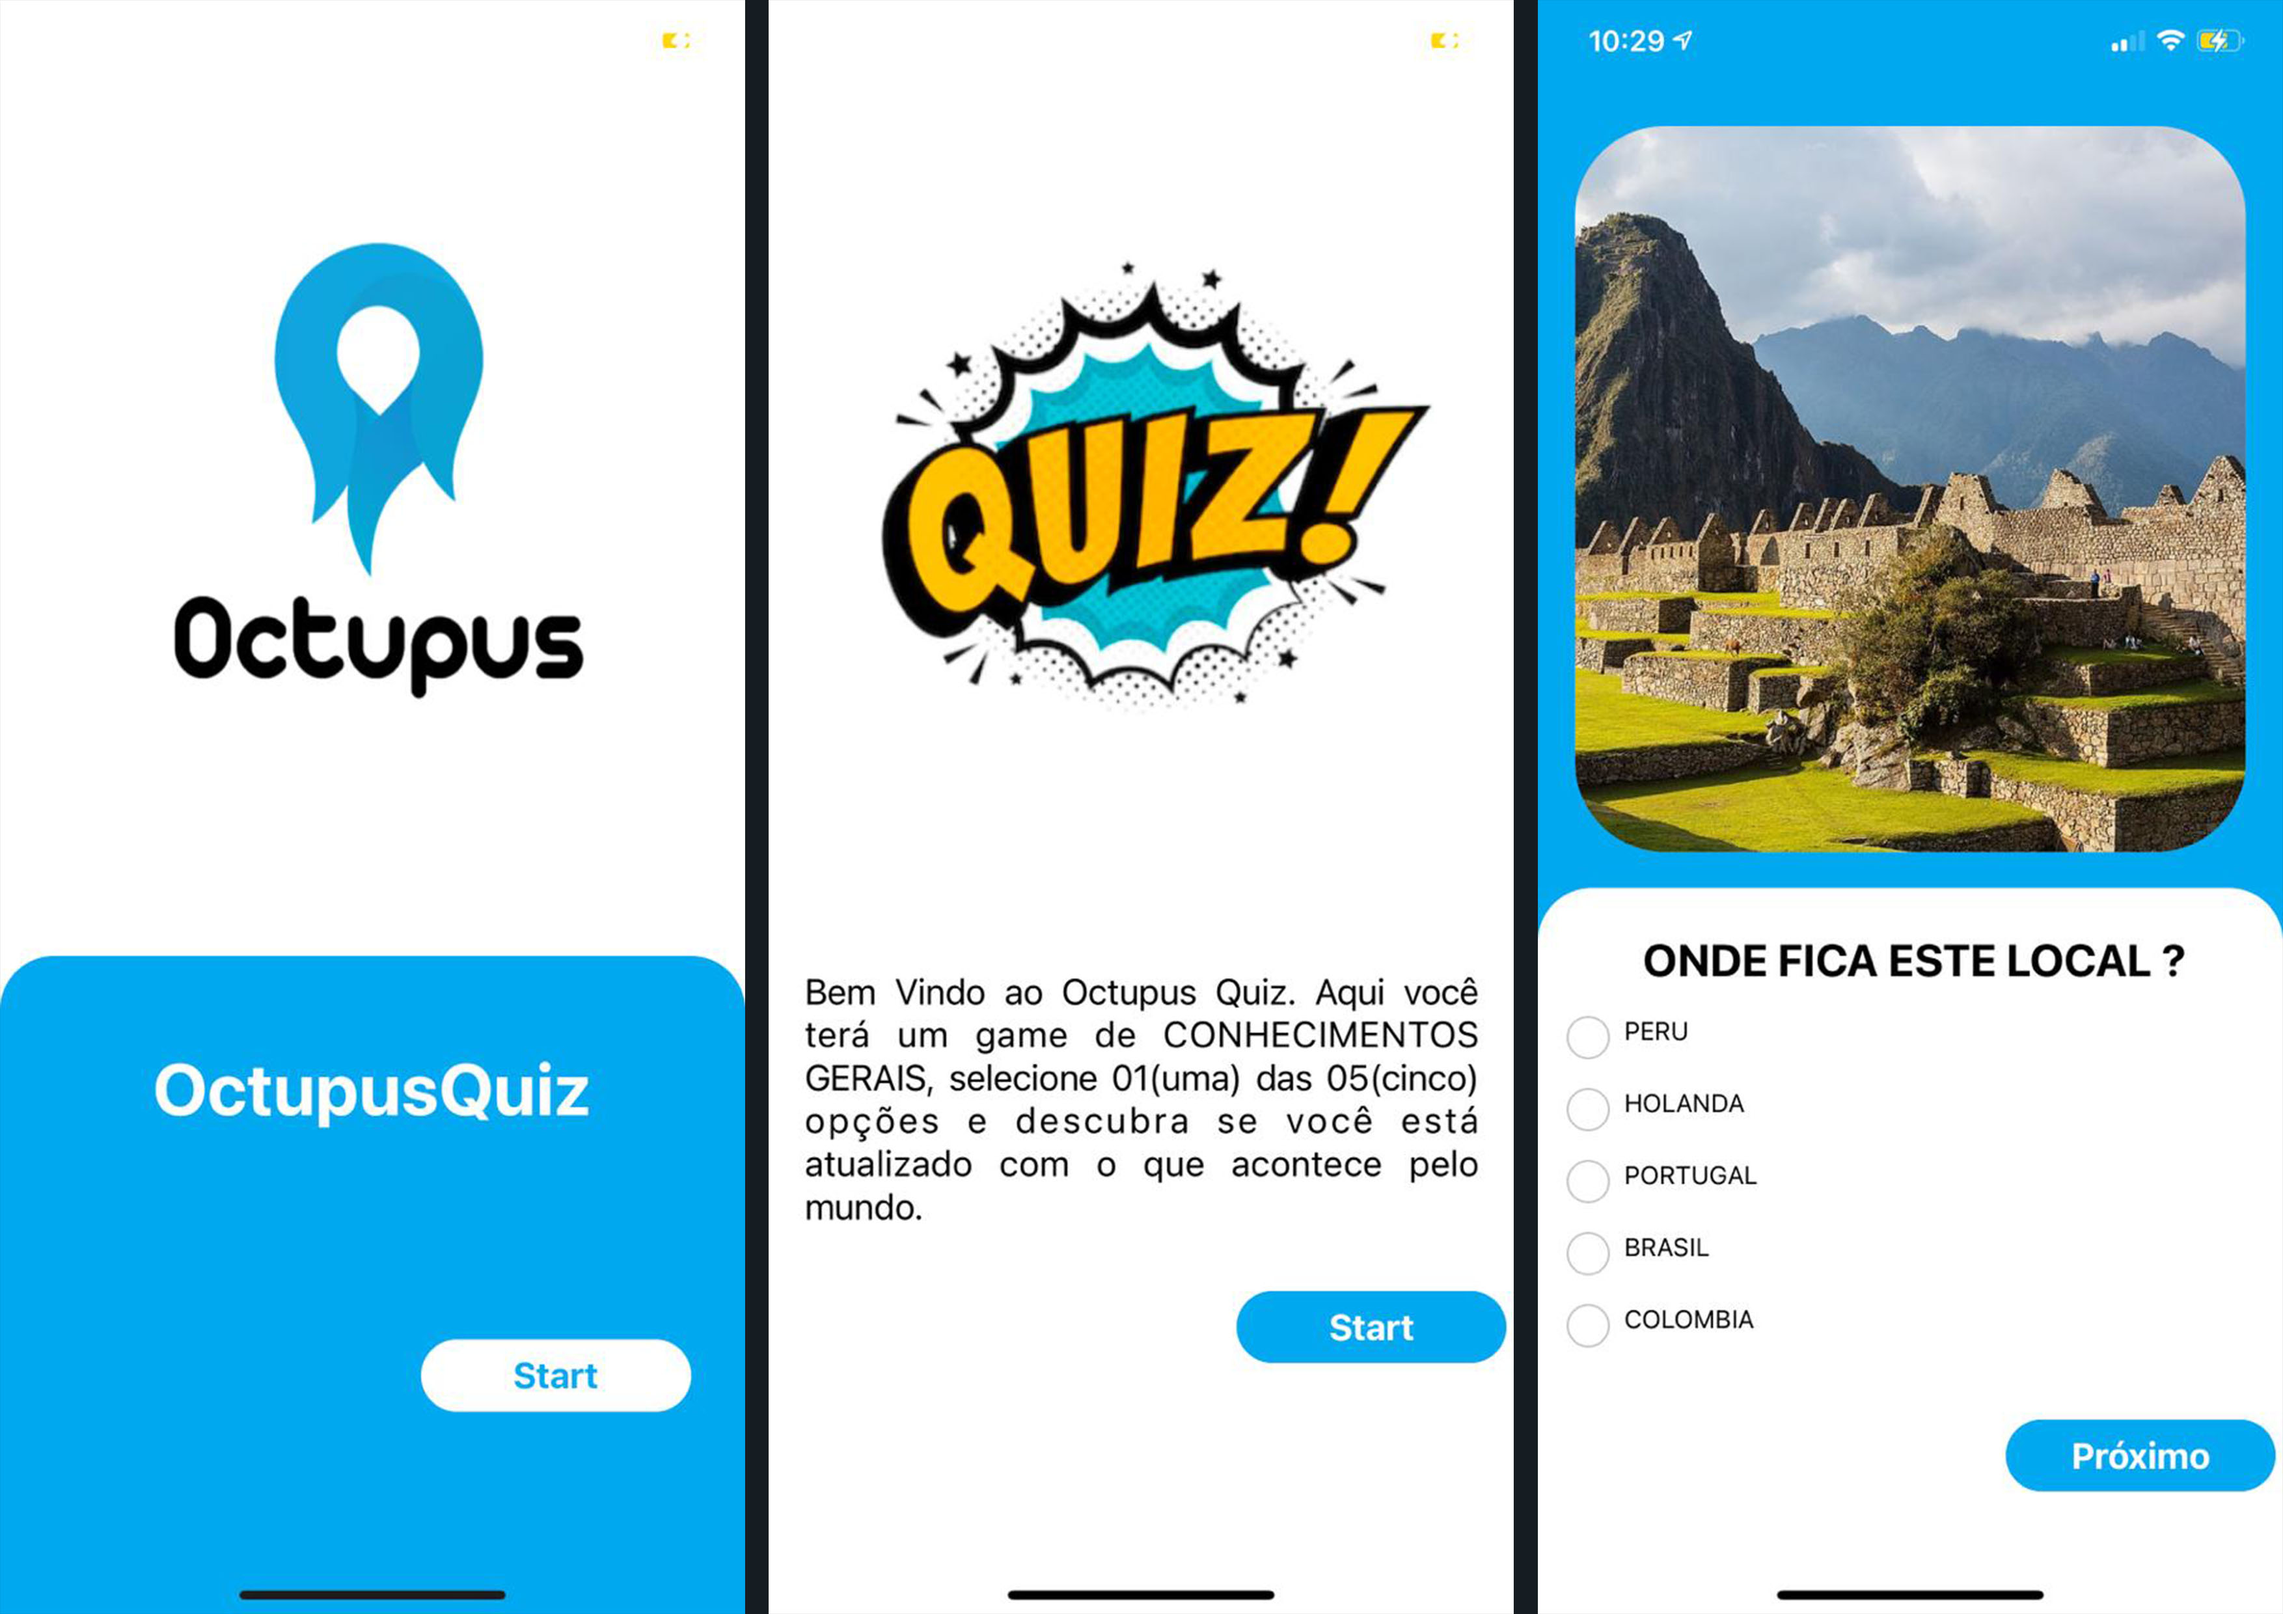
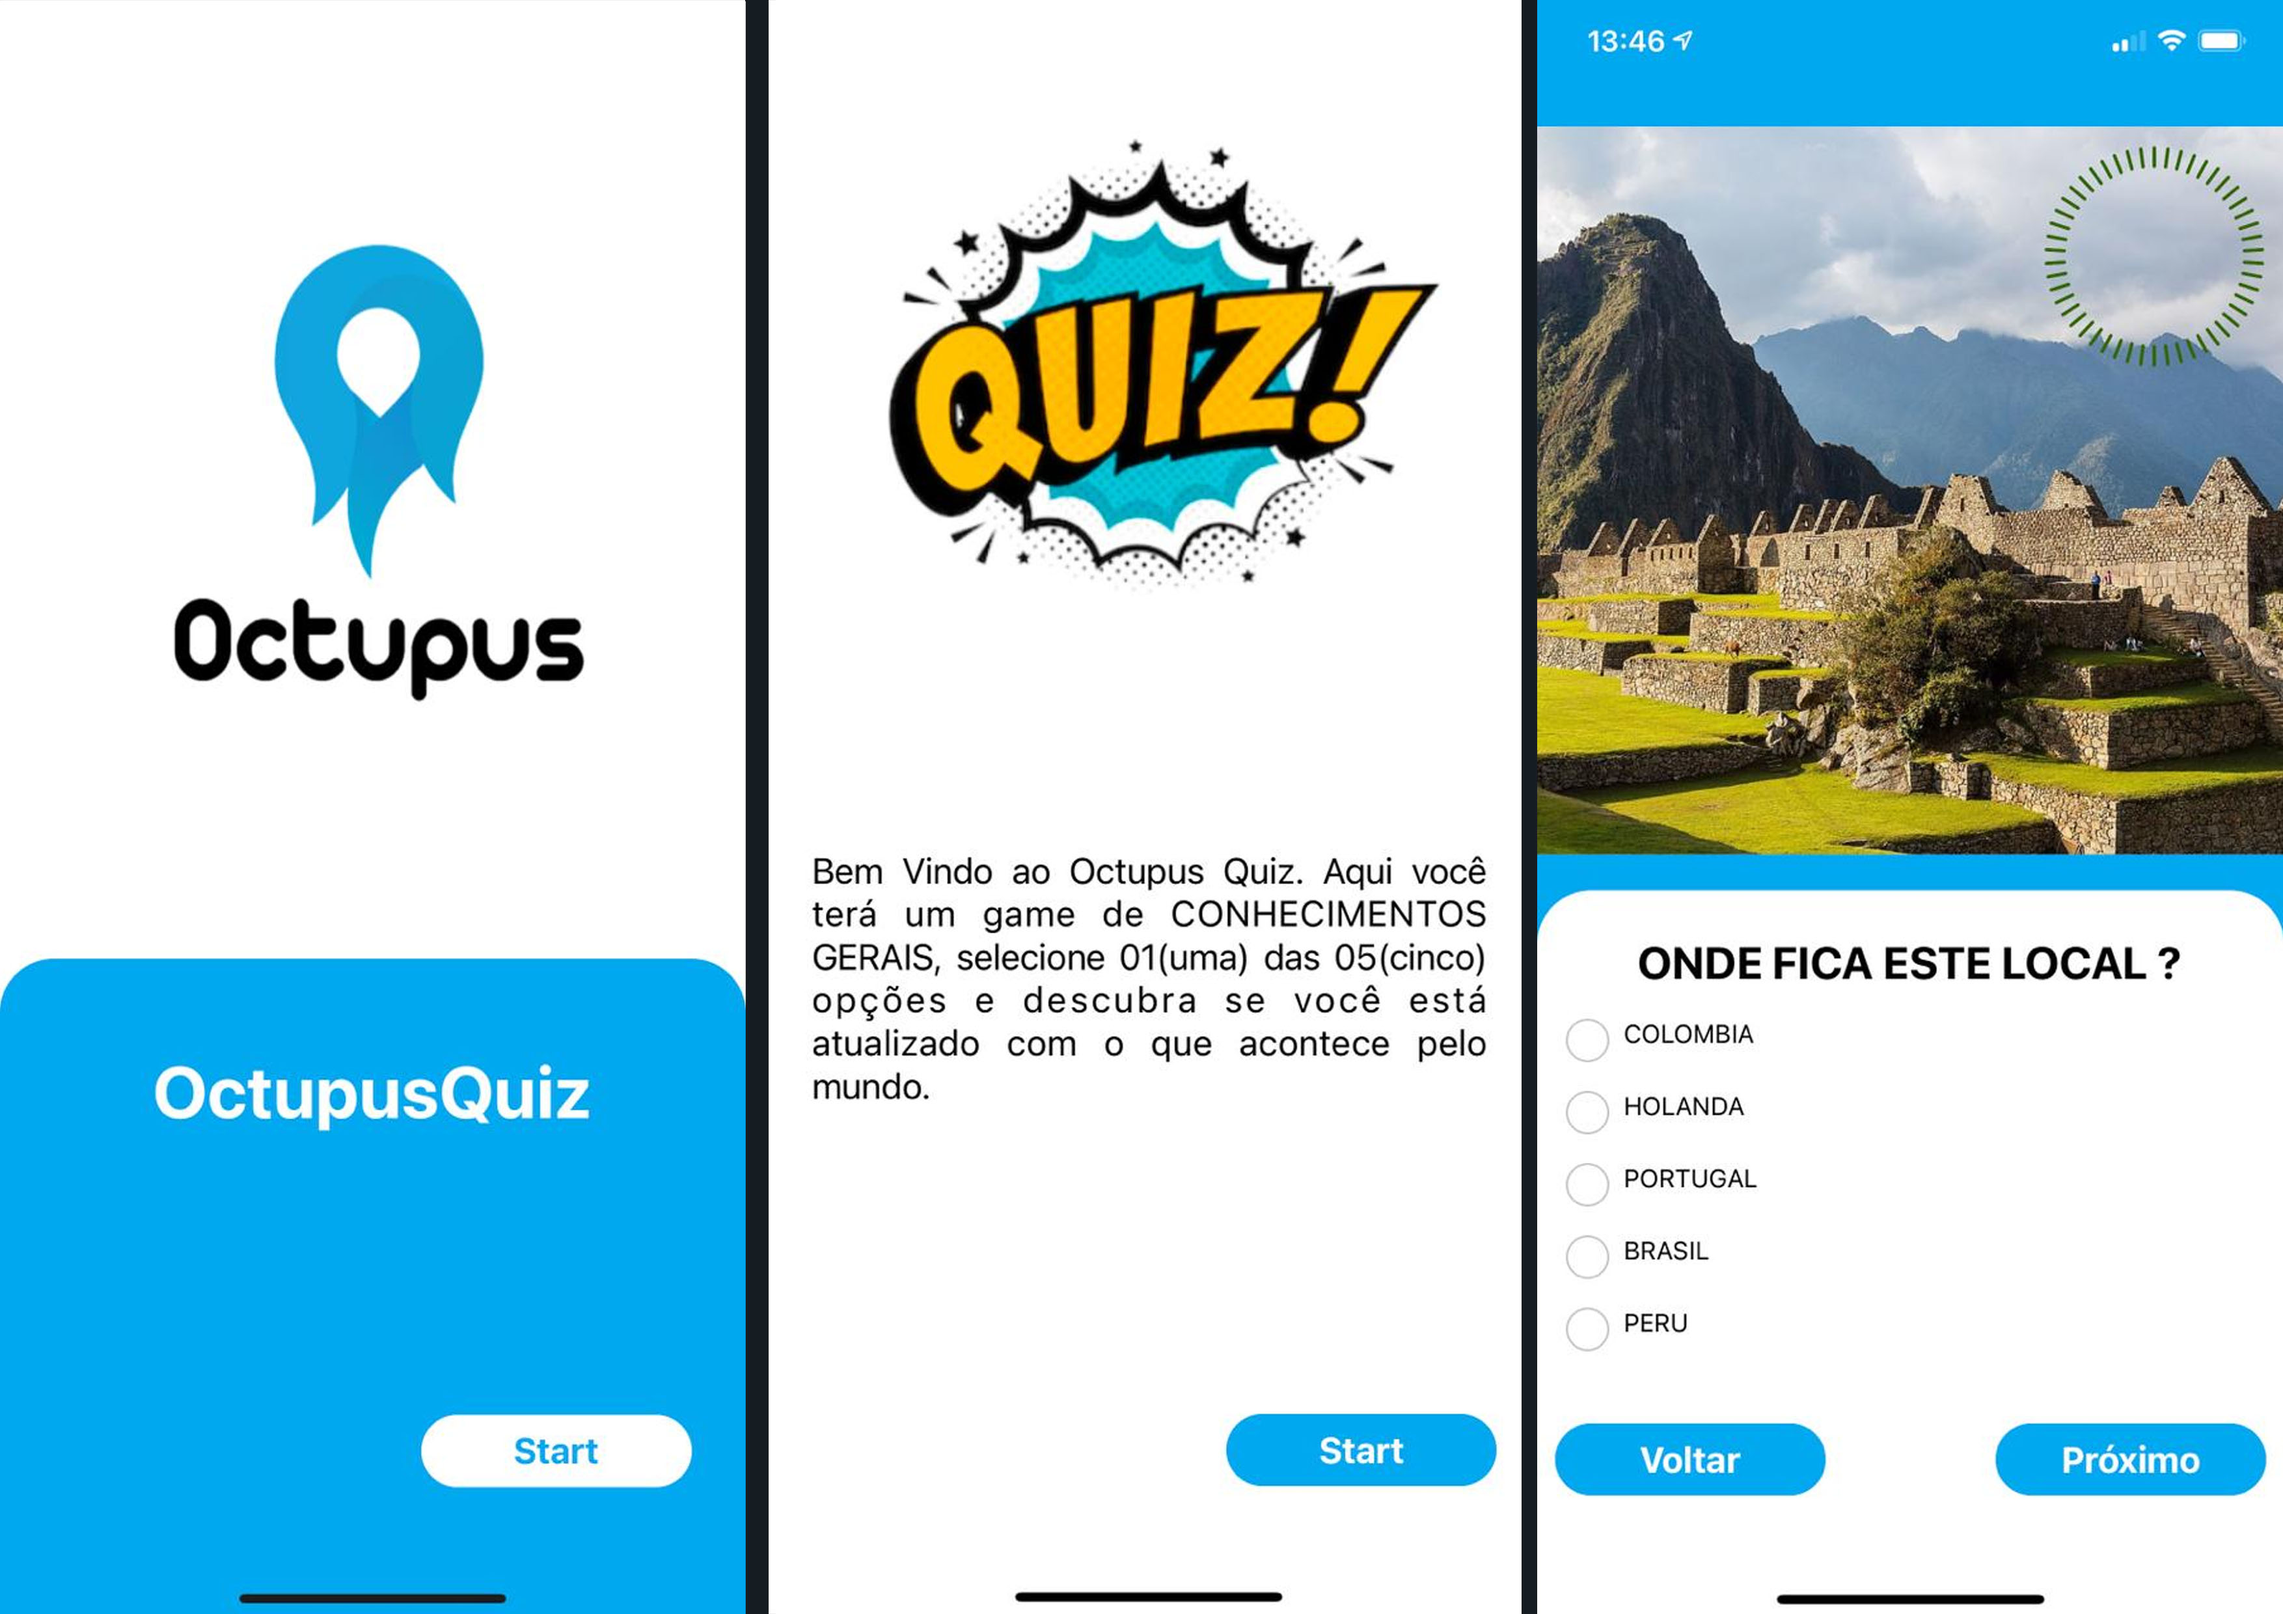
Clock 10m timer

diff --git a/Components/Styles.js b/Components/Styles.js
@@ -101,7 +101,7 @@ const styles = StyleSheet.create({
     borderRadius: 50,
     borderColor: "#00a8f0",
     borderWidth: 1,
-    marginTop: 15,
+    marginTop: 150,
     backgroundColor: "#00a8f0",
   },
   textSignScreen: {
@@ -163,7 +163,7 @@ const styles = StyleSheet.create({
     flexDirection: "row",
     borderColor: "#ffff",
     borderWidth: 1,
-    marginTop: 15,
+    marginTop: 55,
     backgroundColor: "#ffff",
   },
  

diff --git a/screens/Quiz.js b/screens/Quiz.js
@@ -135,7 +135,7 @@ export default function Quiz({ navigation }) {
                 countBars={50}
                 radius={50}
                 strokeThickness={2}
-                strokeColor="#030303"
+                strokeColor="#336700"
                 showTooltip={false}
                 trailColor="transparent"
                 showIndicator={false}
